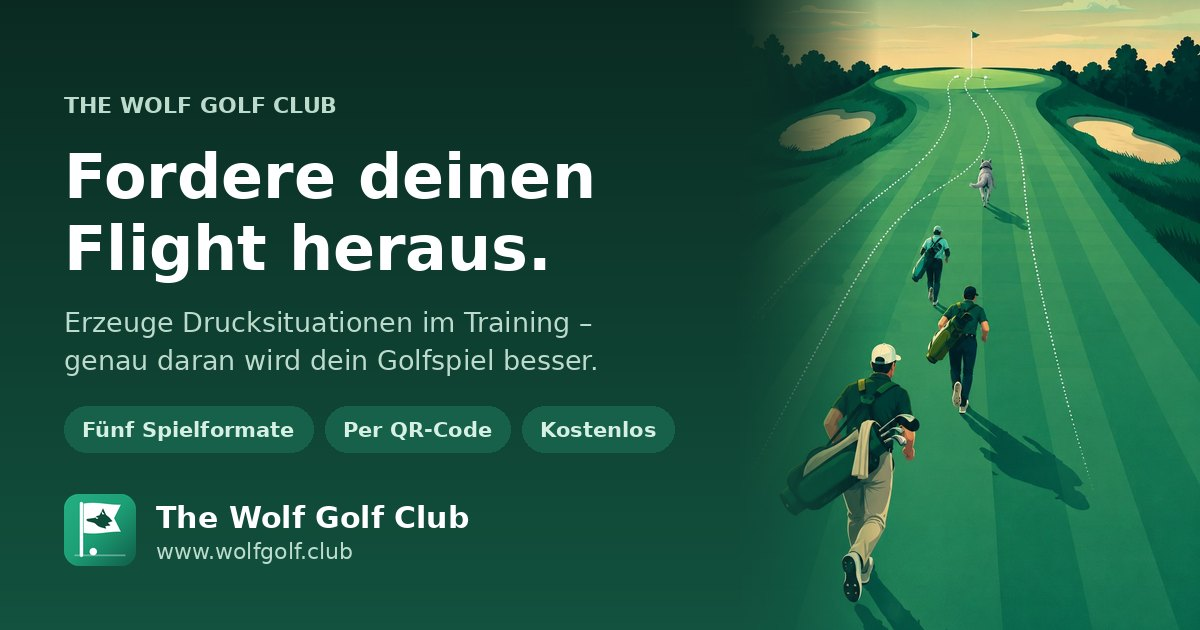
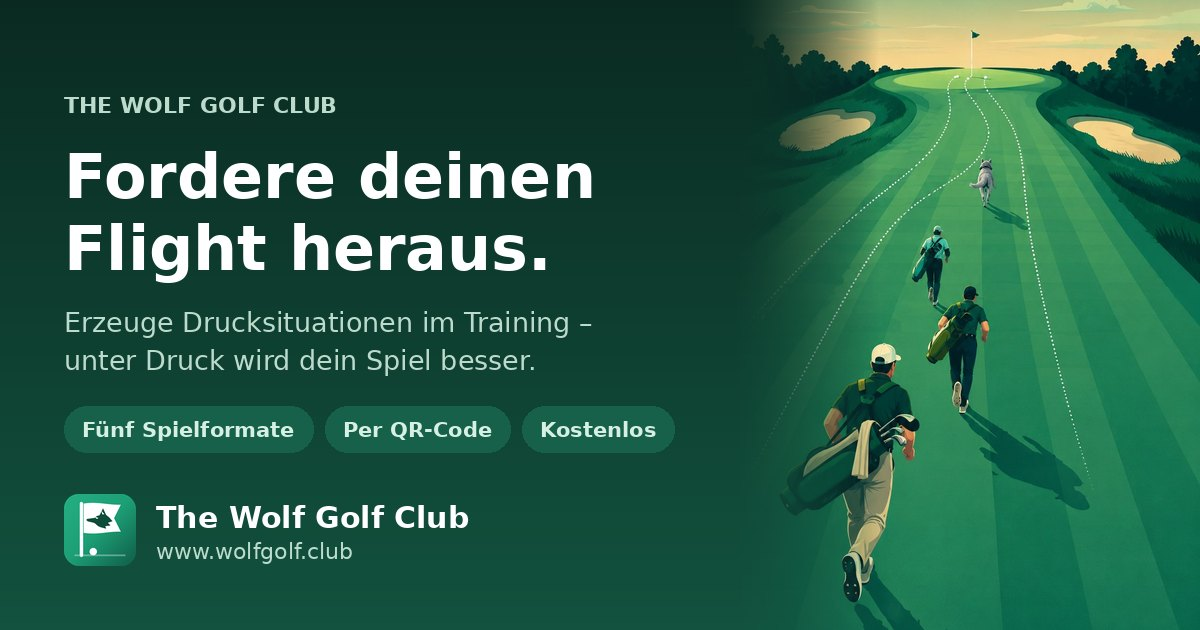
Unterzeile im Aufmacher sprachlich glaetten
"Genau daran wird dein Golfspiel besser" ist schiefes Deutsch. Jetzt:
"Unter Druck wird dein Spiel besser." Dieselbe Konstruktion steckte in der
Meta-Beschreibung ("Drucksituationen, an denen dein Golfspiel besser wird")
und in der og-Beschreibung ("an denen dein Spiel waechst") – beide ebenfalls
neu, dazu die Vorschaukarte neu gebaut. Englisch parallel gezogen:
"Pressure is what makes your golf better."

Claude-Session: https://claude.ai/code/session_018PM7ZhjBjhBe7zRN1s8Uth

Changed region(s): [[0.0617, 0.5429, 0.4933, 0.6032]]

diff --git a/index.html b/index.html
@@ -6,7 +6,7 @@
     <meta name="theme-color" content="#1D9E75" />
     <meta
       name="description"
-      content="Fordere deinen Flight heraus: Matchplay, Nassau mit Press, Skins, Wolf und Bingo Bango Bongo parallel auf einer Runde. So entstehen im Training die Drucksituationen, an denen dein Golfspiel besser wird. Mitspieler per QR-Code, Netto mit der richtigen Vorgabe, weil der Handicap-Index nach WHS mitläuft. Kostenlos und ohne Konto."
+      content="Fordere deinen Flight heraus: Matchplay, Nassau mit Press, Skins, Wolf und Bingo Bango Bongo parallel auf einer Runde. Im Training entsteht echter Druck, und unter Druck wird dein Spiel besser. Mitspieler per QR-Code, Netto mit der richtigen Vorgabe, weil der Handicap-Index nach WHS mitläuft. Kostenlos und ohne Konto."
     />
     <link rel="canonical" href="https://www.wolfgolf.club/" />
 
@@ -17,7 +17,7 @@
     <meta property="og:title" content="The Wolf Golf Club – fordere deinen Flight heraus" />
     <meta
       property="og:description"
-      content="Fünf Spielformate parallel auf einer Runde: Drucksituationen im Training, an denen dein Spiel wächst. Mitspieler per QR-Code, Netto mit der richtigen Vorgabe."
+      content="Fünf Spielformate parallel auf einer Runde: echter Druck im Training, statt nur Bälle abzuschlagen. Mitspieler per QR-Code, Netto mit der richtigen Vorgabe."
     />
     <meta property="og:image" content="https://www.wolfgolf.club/og-image.jpg" />
     <meta property="og:image:width" content="1200" />

diff --git a/golf_hcp_tracker.tsx b/golf_hcp_tracker.tsx
@@ -4316,8 +4316,8 @@ function LandingPage({profile, onSave, onOpenLegal}) {
               {t("Fordere deinen Flight heraus.","Challenge your flight.")}
             </h1>
             <p style={{fontSize:"clamp(16px, 2vw, 18px)",lineHeight:1.55,color:"rgba(255,255,255,0.86)",margin:"0 0 16px",maxWidth:520}}>
-              {t("Erzeuge Drucksituationen im Training, statt nur Bälle abzuschlagen. Genau daran wird dein Golfspiel besser.",
-                 "Create pressure situations in practice instead of just hitting balls. That is what makes your golf better.")}
+              {t("Erzeuge Drucksituationen im Training, statt nur Bälle abzuschlagen. Unter Druck wird dein Spiel besser.",
+                 "Create pressure situations in practice instead of just hitting balls. Pressure is what makes your golf better.")}
             </p>
             {!showDesktopShot && <div style={{margin:"0 0 16px"}}><HeroArt ratio="4 / 5"/></div>}
 

diff --git a/scripts/generate-og-image.py b/scripts/generate-og-image.py
@@ -90,7 +90,7 @@ def main() -> None:
     # Unterzeile
     sub = font(REGULAR, 27)
     draw.text((PAD, 306), "Erzeuge Drucksituationen im Training –", font=sub, fill=MUTED)
-    draw.text((PAD, 344), "genau daran wird dein Golfspiel besser.", font=sub, fill=MUTED)
+    draw.text((PAD, 344), "unter Druck wird dein Spiel besser.", font=sub, fill=MUTED)
 
     # Merkmale als Pillen
     chip_font = font(BOLD, 21)
